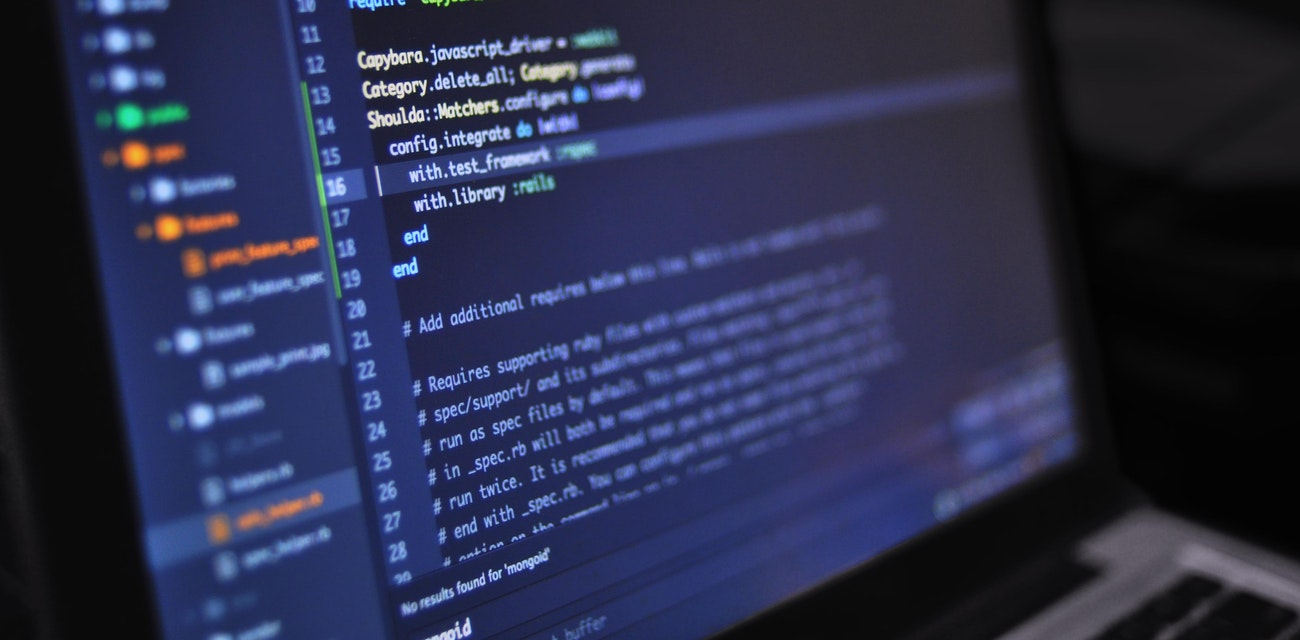
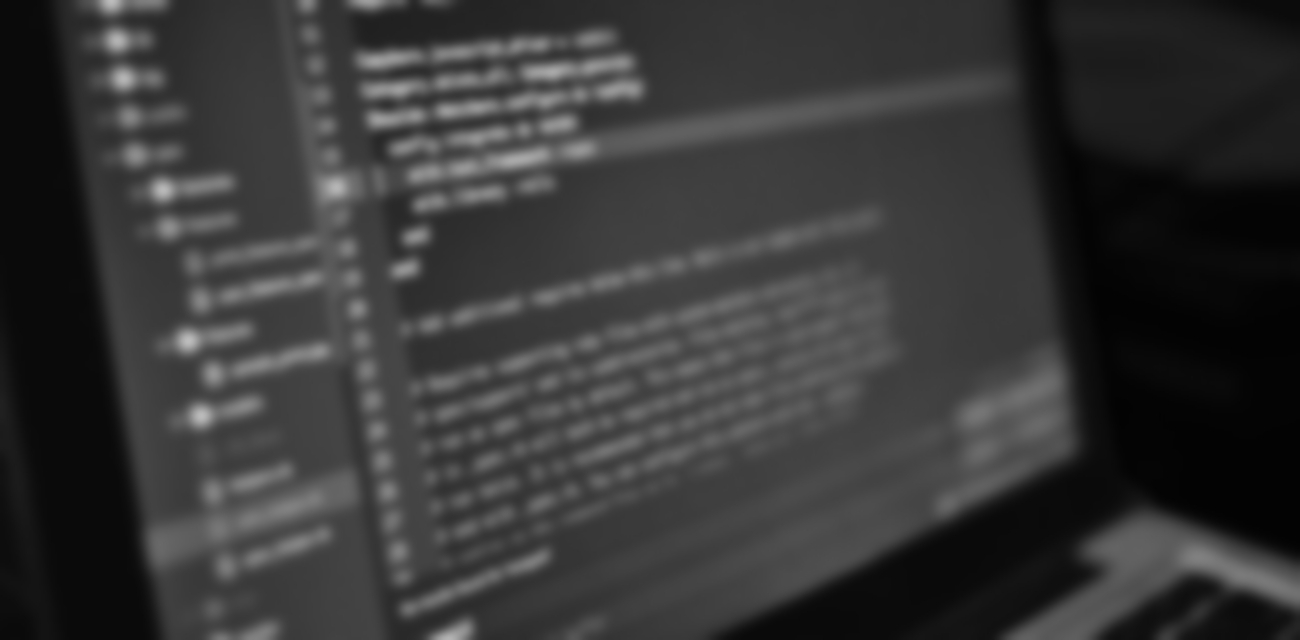
bg image fix

diff --git a/src/components/Main.js b/src/components/Main.js
@@ -2,14 +2,32 @@ import React from "react"
 import styled from "styled-components"
 import { FaLinkedin, FaGithub } from "react-icons/fa"
 import { GoMail } from "react-icons/go"
-import image from "../images/capture.PNG"
 import { personalData } from "../data/datafile"
-
-console.log(personalData.linkedin)
+import Img from "gatsby-image"
+import { useStaticQuery, graphql } from "gatsby"
 function Main() {
+  const data = useStaticQuery(graphql`
+    query MyQuery {
+      file(relativePath: { eq: "pexels-luis-gomes-546819.jpg" }) {
+        id
+        childImageSharp {
+          fluid {
+            src
+          }
+        }
+      }
+    }
+  `)
+  console.log(data)
   return (
     <div id="main">
-      <Container />
+      <Container>
+        <BackgroundImg
+          alt="background"
+          src={data.file.childImageSharp.fluid.src}
+          fluid={data.file.childImageSharp.fluid}
+        />
+      </Container>
       <Caption>
         <Title> Abir Chakorun </Title>
         <SubTitle> FULLSTACK WEB DEVELOPER</SubTitle>
@@ -35,14 +53,17 @@ const Container = styled.div`
   height: 100vh;
   text-align: center;
   position: relative;
- background-image: url(${image});
- object-fit:cover;
 }
+`
+const BackgroundImg = styled(Img)`
+  object-fit: contain;
+  width: 100%;
+  height: 100%;
 `
 const Caption = styled.div`
   top: 35%;
   position: absolute;
-  width: 95%;
+  width: 100%;
   text-align: center;
 `
 const Title = styled.h1`
